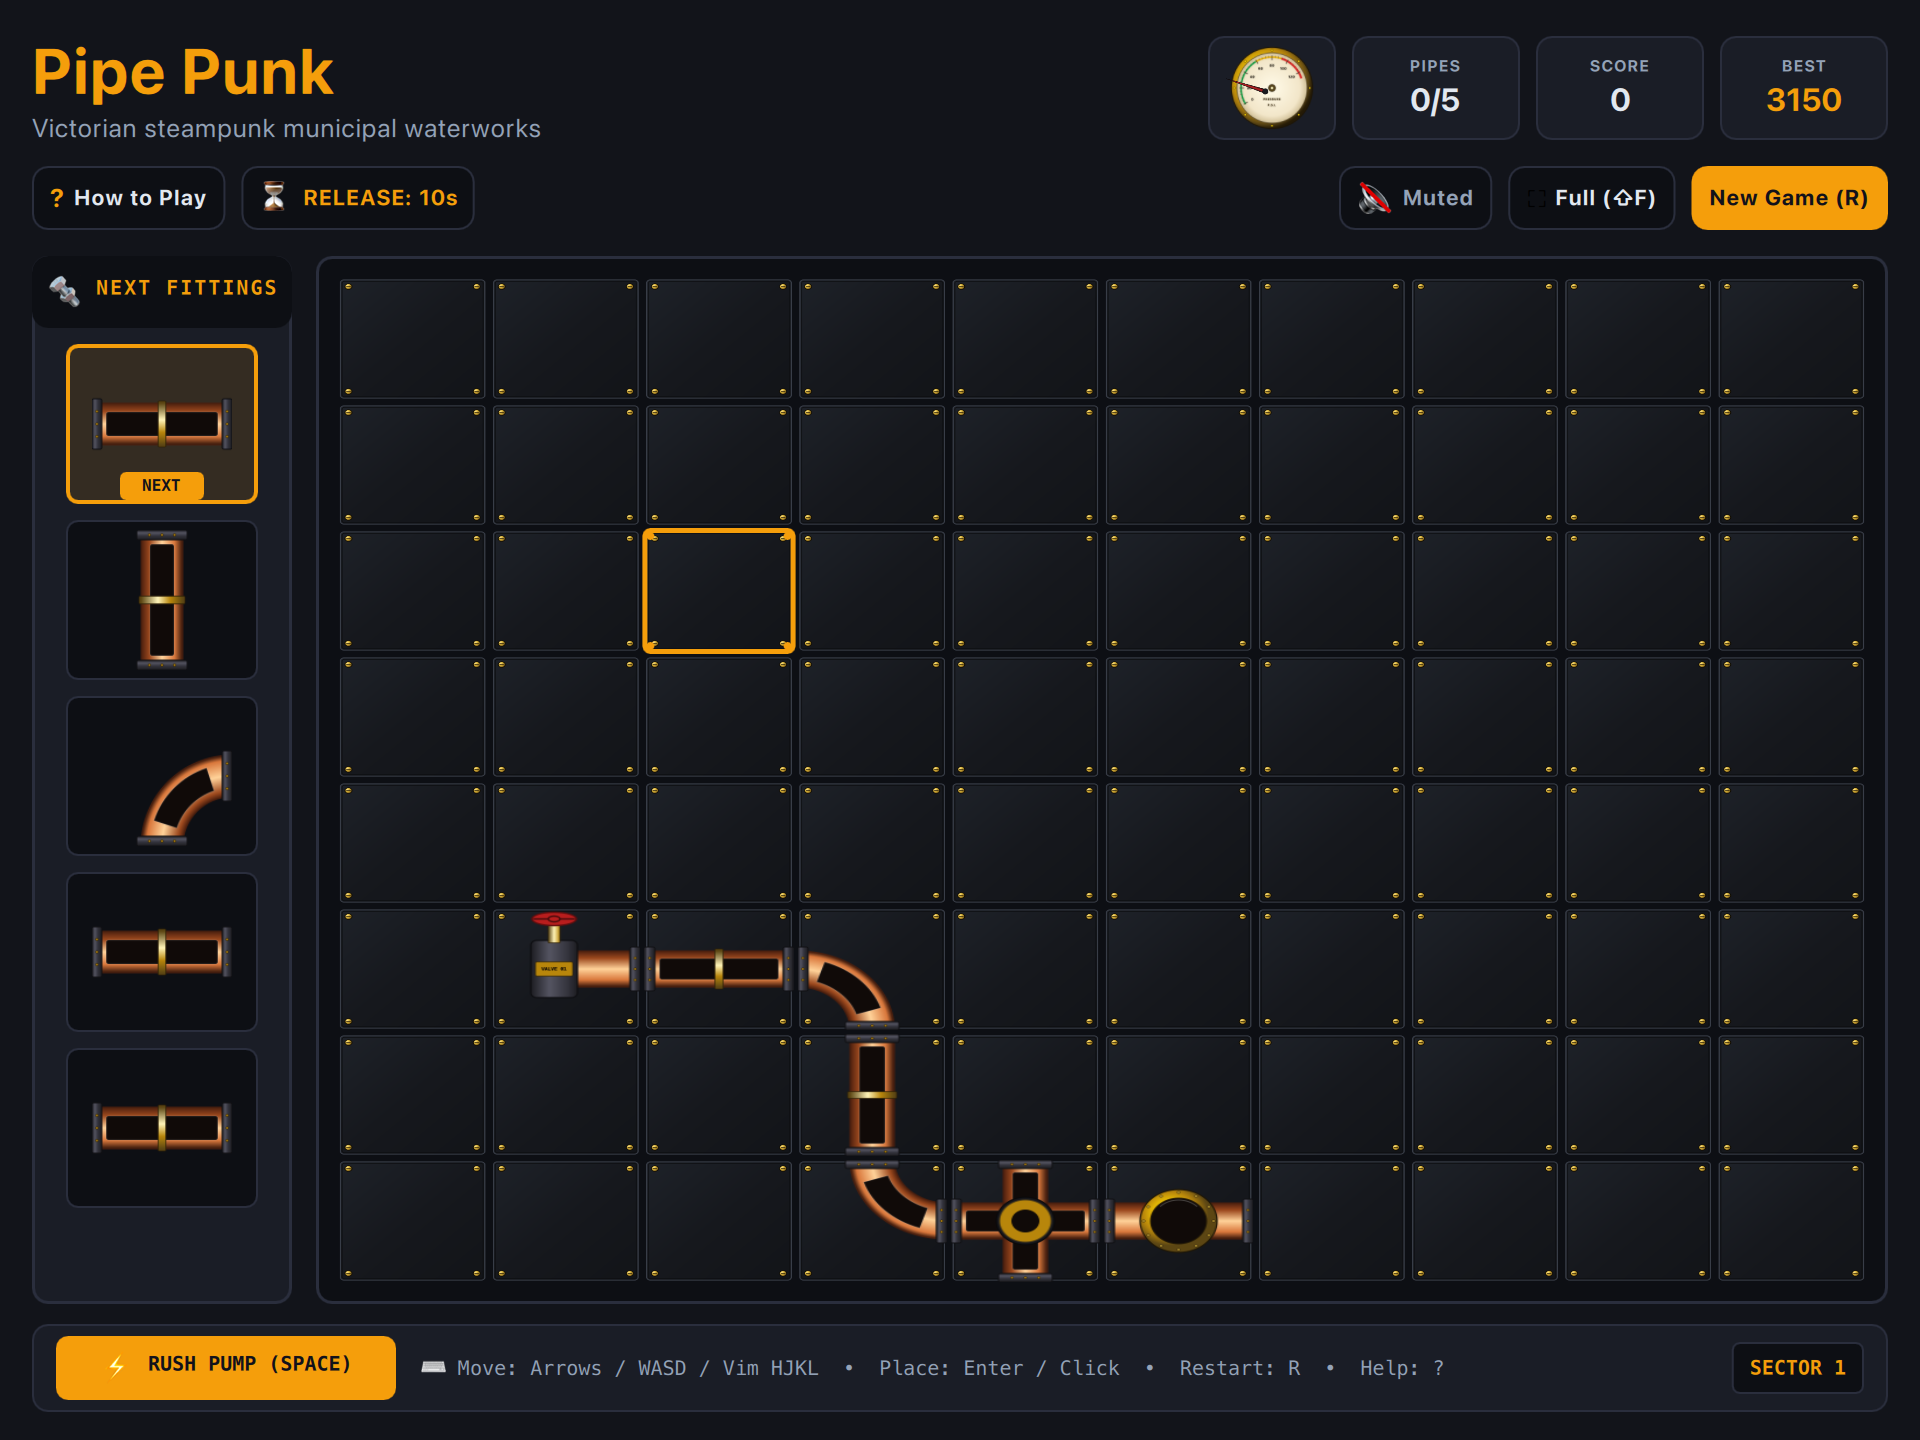
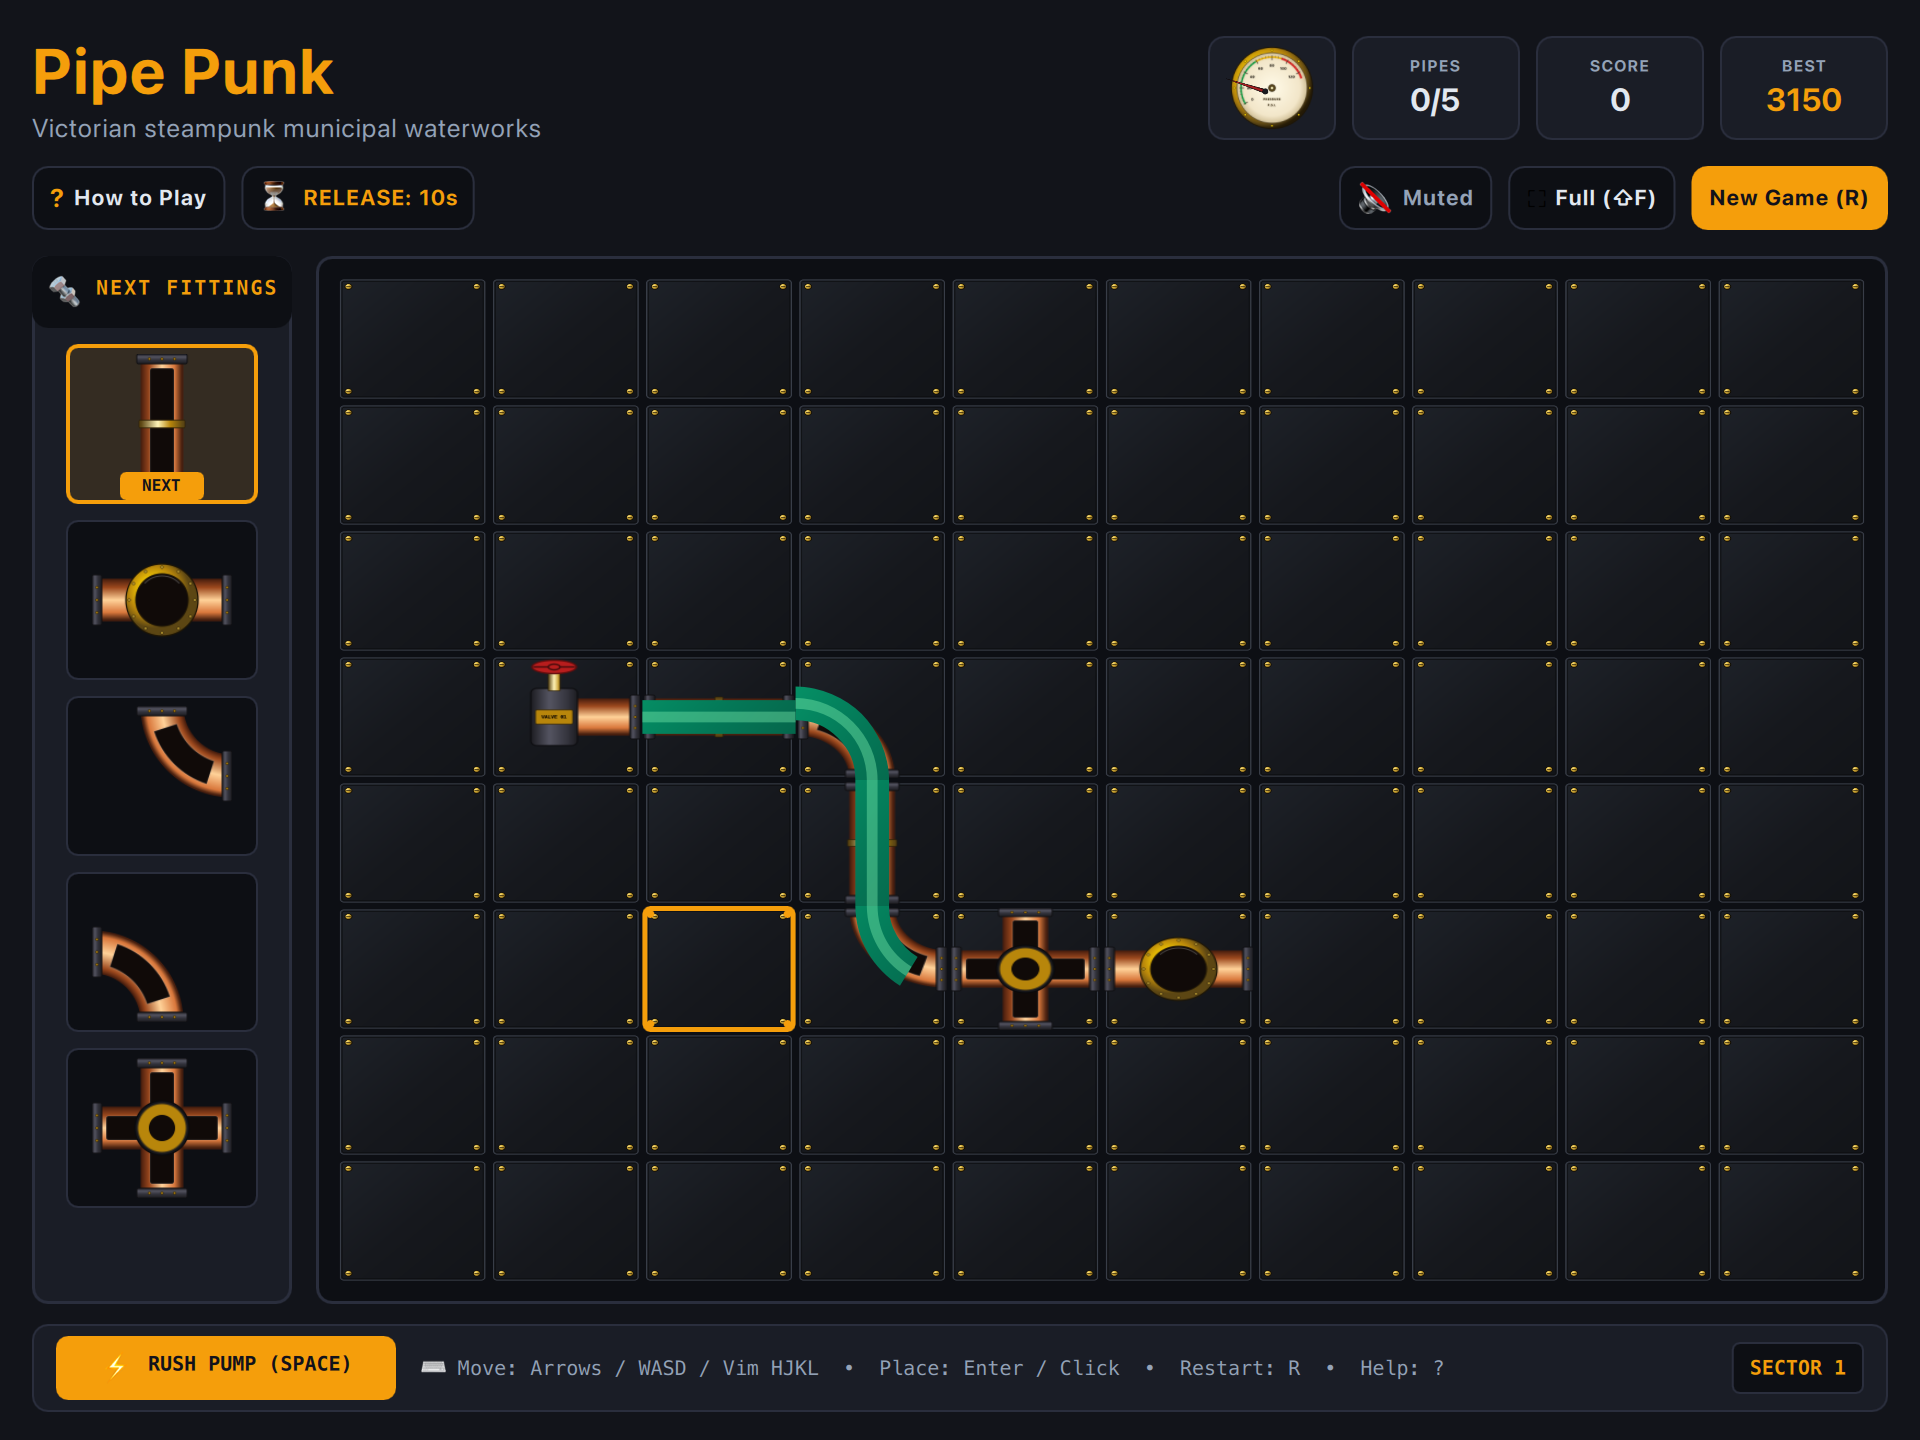
fix(pipepunk): calibrate fluid geometry, clear canvas on reset, and fix reactive queue update

diff --git a/games/pipepunk/main.qml b/games/pipepunk/main.qml
@@ -71,6 +71,7 @@ Window {
     property int cursorR: 3
     property int cursorC: 4
     property int gridRevision: 0
+    property var queueList: []
 
     // Screen Shake effect on blowout or rush
     property real shakeX: 0
@@ -152,6 +153,16 @@ Window {
         });
     }
 
+    function placePipeAt(r, c) {
+        if (!gameState || (gameState.state !== "countdown" && gameState.state !== "flowing")) return;
+        if (Engine.placeNextPiece(gameState, r, c)) {
+            playSound("pipe_clank");
+            queueList = gameState.queue.slice();
+            gridRevision++;
+            if (gridCanvas) gridCanvas.requestPaint();
+        }
+    }
+
     // =========================================================================
     // GAME INITIALIZATION
     // =========================================================================
@@ -159,12 +170,14 @@ Window {
         currentLevel = lvl || 1;
         gameState = Engine.createGameState(currentLevel);
         score = 0;
+        queueList = gameState.queue.slice();
         cursorR = gameState.valveRow;
         cursorC = gameState.valveCol + 1;
         if (cursorC >= Engine.COLS) cursorC = Engine.COLS - 1;
         shakeX = 0;
         shakeY = 0;
         gridRevision++;
+        if (gridCanvas) gridCanvas.requestPaint();
         playSound("pipe_clank");
     }
 
@@ -176,12 +189,14 @@ Window {
         var currentScore = score;
         gameState = Engine.createGameState(currentLevel);
         gameState.score = currentScore;
+        queueList = gameState.queue.slice();
         cursorR = gameState.valveRow;
         cursorC = gameState.valveCol + 1;
         if (cursorC >= Engine.COLS) cursorC = Engine.COLS - 1;
         shakeX = 0;
         shakeY = 0;
         gridRevision++;
+        if (gridCanvas) gridCanvas.requestPaint();
         playSound("pipe_clank");
     }
 
@@ -227,6 +242,7 @@ Window {
         gameState.traversedCount = 4;
         gameState.psi = 46.5;
         score = 850;
+        queueList = gameState.queue.slice();
         gridRevision++;
         gridCanvas.requestPaint();
     }
@@ -367,11 +383,15 @@ Window {
                 return;
             }
 
-            // Space to Rush Pump
+            // Space to Rush Pump (or place during countdown)
             if (event.key === Qt.Key_Space) {
                 if (gameState && gameState.state === "flowing") {
                     gameState.isRushing = true;
                     playSound("rush");
+                    event.accepted = true;
+                    return;
+                } else if (gameState && gameState.state === "countdown") {
+                    placePipeAt(cursorR, cursorC);
                     event.accepted = true;
                     return;
                 }
@@ -379,13 +399,7 @@ Window {
 
             // Enter to place pipe at cursor
             if (event.key === Qt.Key_Return || event.key === Qt.Key_Enter) {
-                if (gameState && (gameState.state === "countdown" || gameState.state === "flowing")) {
-                    if (Engine.placeNextPiece(gameState, cursorR, cursorC)) {
-                        playSound("pipe_clank");
-                        gridRevision++;
-                        gridCanvas.requestPaint();
-                    }
-                }
+                placePipeAt(cursorR, cursorC);
                 event.accepted = true;
                 return;
             }
@@ -998,7 +1012,7 @@ Window {
                     spacing: 8
 
                     Repeater {
-                        model: gameState ? gameState.queue : []
+                        model: root.queueList
 
                         Rectangle {
                             width: 96
@@ -1113,13 +1127,7 @@ Window {
                                 onClicked: {
                                     cursorR = r;
                                     cursorC = c;
-                                    if (gameState && (gameState.state === "countdown" || gameState.state === "flowing")) {
-                                        if (Engine.placeNextPiece(gameState, r, c)) {
-                                            playSound("pipe_clank");
-                                            gridRevision++;
-                                            gridCanvas.requestPaint();
-                                        }
-                                    }
+                                    placePipeAt(r, c);
                                 }
                                 onEntered: {
                                     cursorR = r;
@@ -1133,14 +1141,13 @@ Window {
                     Canvas {
                         id: gridCanvas
                         anchors.fill: parent
-                        renderTarget: Canvas.FramebufferObject
-                        renderStrategy: Canvas.Threaded
 
                         onPaint: {
                             var ctx = getContext("2d");
+                            if (typeof ctx.reset === "function") ctx.reset();
                             ctx.clearRect(0, 0, width, height);
 
-                            if (!gameState || !gameState.grid) return;
+                            if (!gameState || !gameState.grid || gameState.state === "countdown") return;
 
                             var cw = gridMatrix.cellW;
                             var ch = gridMatrix.cellH;
@@ -1165,26 +1172,21 @@ Window {
                         }
 
                         function drawFluidInCell(ctx, cell, cx, cy, cw, ch) {
-                            var p = cell.fillProgress;
+                            var p = Math.max(0.0, Math.min(1.0, cell.fillProgress));
                             var entry = cell.entryPort;
-                            var exit = cell.exitPort;
 
                             ctx.save();
                             var grad = ctx.createLinearGradient(cx, cy, cx + cw, cy + ch);
-                            grad.addColorStop(0, "#10b981");
-                            grad.addColorStop(0.5, "#059669");
-                            grad.addColorStop(1, "#34d399");
+                            grad.addColorStop(0, "#059669");
+                            grad.addColorStop(0.5, "#047857");
+                            grad.addColorStop(1, "#065f46");
 
                             ctx.strokeStyle = grad;
-                            ctx.lineWidth = cw * 0.28;
-                            ctx.lineCap = "round";
-                            ctx.lineJoin = "round";
-
-                            ctx.shadowColor = "#34d399";
-                            ctx.shadowBlur = 8;
+                            ctx.lineWidth = cw * 0.22;
+                            ctx.lineCap = "butt";
+                            ctx.lineJoin = "miter";
 
                             ctx.beginPath();
-
                             var midX = cx + cw / 2;
                             var midY = cy + ch / 2;
 
@@ -1205,44 +1207,32 @@ Window {
                                     ctx.lineTo(midX, cy + ch * (1 - p));
                                 }
                             } else if (cell.type === "corner_1") {
+                                // N <-> E, Center at (cx + cw, cy)
                                 if (entry === "N") {
-                                    var startA = Math.PI;
-                                    var endA = Math.PI - (Math.PI / 2) * p;
-                                    ctx.arc(cx + cw, cy, cw / 2, startA, endA, true);
+                                    ctx.arc(cx + cw, cy, cw / 2, Math.PI, Math.PI - (Math.PI / 2) * p, true);
                                 } else {
-                                    var startA = Math.PI / 2;
-                                    var endA = Math.PI / 2 + (Math.PI / 2) * p;
-                                    ctx.arc(cx + cw, cy, cw / 2, startA, endA, false);
+                                    ctx.arc(cx + cw, cy, cw / 2, Math.PI / 2, Math.PI / 2 + (Math.PI / 2) * p, false);
                                 }
                             } else if (cell.type === "corner_2") {
+                                // N <-> W, Center at (cx, cy)
                                 if (entry === "N") {
-                                    var startA = 0;
-                                    var endA = (Math.PI / 2) * p;
-                                    ctx.arc(cx, cy, cw / 2, startA, endA, false);
+                                    ctx.arc(cx, cy, cw / 2, 0, (Math.PI / 2) * p, false);
                                 } else {
-                                    var startA = Math.PI / 2;
-                                    var endA = Math.PI / 2 - (Math.PI / 2) * p;
-                                    ctx.arc(cx, cy, cw / 2, startA, endA, true);
+                                    ctx.arc(cx, cy, cw / 2, Math.PI / 2, Math.PI / 2 - (Math.PI / 2) * p, true);
                                 }
                             } else if (cell.type === "corner_3") {
+                                // S <-> E, Center at (cx + cw, cy + ch)
                                 if (entry === "S") {
-                                    var startA = 0;
-                                    var endA = - (Math.PI / 2) * p;
-                                    ctx.arc(cx, cy + ch, cw / 2, startA, endA, true);
+                                    ctx.arc(cx + cw, cy + ch, cw / 2, Math.PI, Math.PI + (Math.PI / 2) * p, false);
                                 } else {
-                                    var startA = - Math.PI / 2;
-                                    var endA = - Math.PI / 2 + (Math.PI / 2) * p;
-                                    ctx.arc(cx, cy + ch, cw / 2, startA, endA, false);
+                                    ctx.arc(cx + cw, cy + ch, cw / 2, -Math.PI / 2, -Math.PI / 2 - (Math.PI / 2) * p, true);
                                 }
                             } else if (cell.type === "corner_4") {
+                                // S <-> W, Center at (cx, cy + ch)
                                 if (entry === "S") {
-                                    var startA = Math.PI;
-                                    var endA = Math.PI + (Math.PI / 2) * p;
-                                    ctx.arc(cx + cw, cy + ch, cw / 2, startA, endA, false);
+                                    ctx.arc(cx, cy + ch, cw / 2, 0, - (Math.PI / 2) * p, true);
                                 } else {
-                                    var startA = - Math.PI / 2;
-                                    var endA = - Math.PI / 2 - (Math.PI / 2) * p;
-                                    ctx.arc(cx + cw, cy + ch, cw / 2, startA, endA, true);
+                                    ctx.arc(cx, cy + ch, cw / 2, -Math.PI / 2, -Math.PI / 2 + (Math.PI / 2) * p, false);
                                 }
                             } else if (cell.type === "cross") {
                                 if (entry === "W") {
@@ -1259,34 +1249,49 @@ Window {
                                     ctx.lineTo(midX, cy + ch * (1 - p));
                                 }
                             } else if (cell.type === "reservoir") {
-                                ctx.arc(midX, midY, (cw * 0.35) * Math.min(1.0, p * 1.5), 0, Math.PI * 2);
+                                if (entry === "W") {
+                                    ctx.moveTo(cx, midY);
+                                    ctx.lineTo(cx + cw * p, midY);
+                                } else {
+                                    ctx.moveTo(cx + cw, midY);
+                                    ctx.lineTo(cx + cw * (1 - p), midY);
+                                }
                             }
 
                             ctx.stroke();
 
-                            // Bright flowing core stream
-                            ctx.lineWidth = cw * 0.12;
-                            ctx.strokeStyle = "#a7f3d0";
-                            ctx.shadowBlur = 0;
-                            ctx.stroke();
+                            // Reservoir liquid chamber fill
+                            if (cell.type === "reservoir" && p > 0.15) {
+                                ctx.beginPath();
+                                var chamberRad = (cw * 0.22) * Math.min(1.0, (p - 0.15) / 0.6);
+                                ctx.arc(midX, midY, chamberRad, 0, Math.PI * 2);
+                                ctx.fillStyle = "#047857";
+                                ctx.fill();
+                            }
+
+                            // Subtle water core stream highlight
+                            if (cell.type !== "reservoir") {
+                                ctx.lineWidth = cw * 0.07;
+                                ctx.strokeStyle = Qt.rgba(0.5, 0.95, 0.7, 0.40);
+                                ctx.stroke();
+                            }
 
                             ctx.restore();
                         }
 
                         function drawCrossSecondPass(ctx, cell, cx, cy, cw, ch) {
-                            var p = cell.crossFillProgress;
+                            var p = Math.max(0.0, Math.min(1.0, cell.crossFillProgress));
                             var entry = cell.crossEntryPort;
 
                             ctx.save();
                             var grad = ctx.createLinearGradient(cx, cy, cx + cw, cy + ch);
-                            grad.addColorStop(0, "#06b6d4");
-                            grad.addColorStop(1, "#22d3ee");
+                            grad.addColorStop(0, "#0284c7");
+                            grad.addColorStop(0.5, "#0369a1");
+                            grad.addColorStop(1, "#075985");
 
                             ctx.strokeStyle = grad;
-                            ctx.lineWidth = cw * 0.28;
-                            ctx.lineCap = "round";
-                            ctx.shadowColor = "#22d3ee";
-                            ctx.shadowBlur = 8;
+                            ctx.lineWidth = cw * 0.22;
+                            ctx.lineCap = "butt";
 
                             ctx.beginPath();
                             var midX = cx + cw / 2;
@@ -1307,8 +1312,8 @@ Window {
                             }
                             ctx.stroke();
 
-                            ctx.lineWidth = cw * 0.12;
-                            ctx.strokeStyle = "#cffafe";
+                            ctx.lineWidth = cw * 0.07;
+                            ctx.strokeStyle = Qt.rgba(0.5, 0.85, 1.0, 0.40);
                             ctx.stroke();
 
                             ctx.restore();
